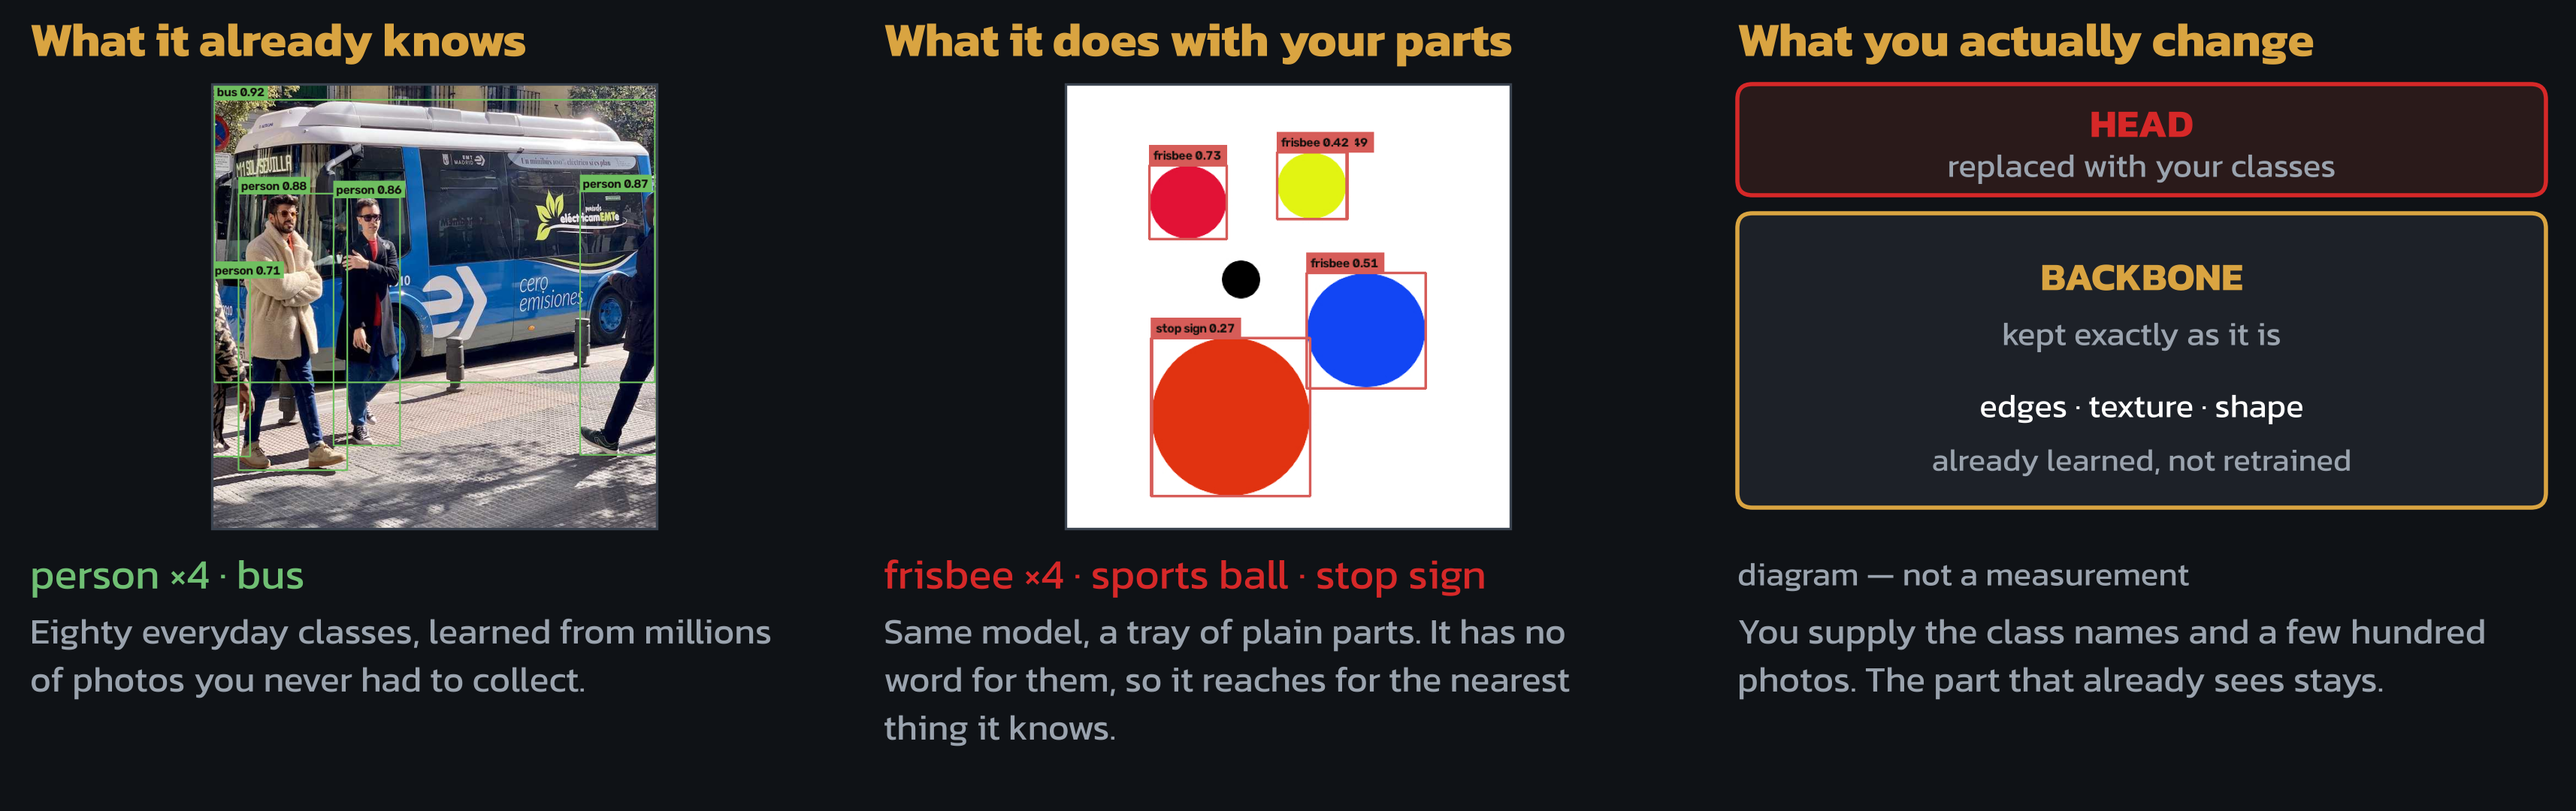
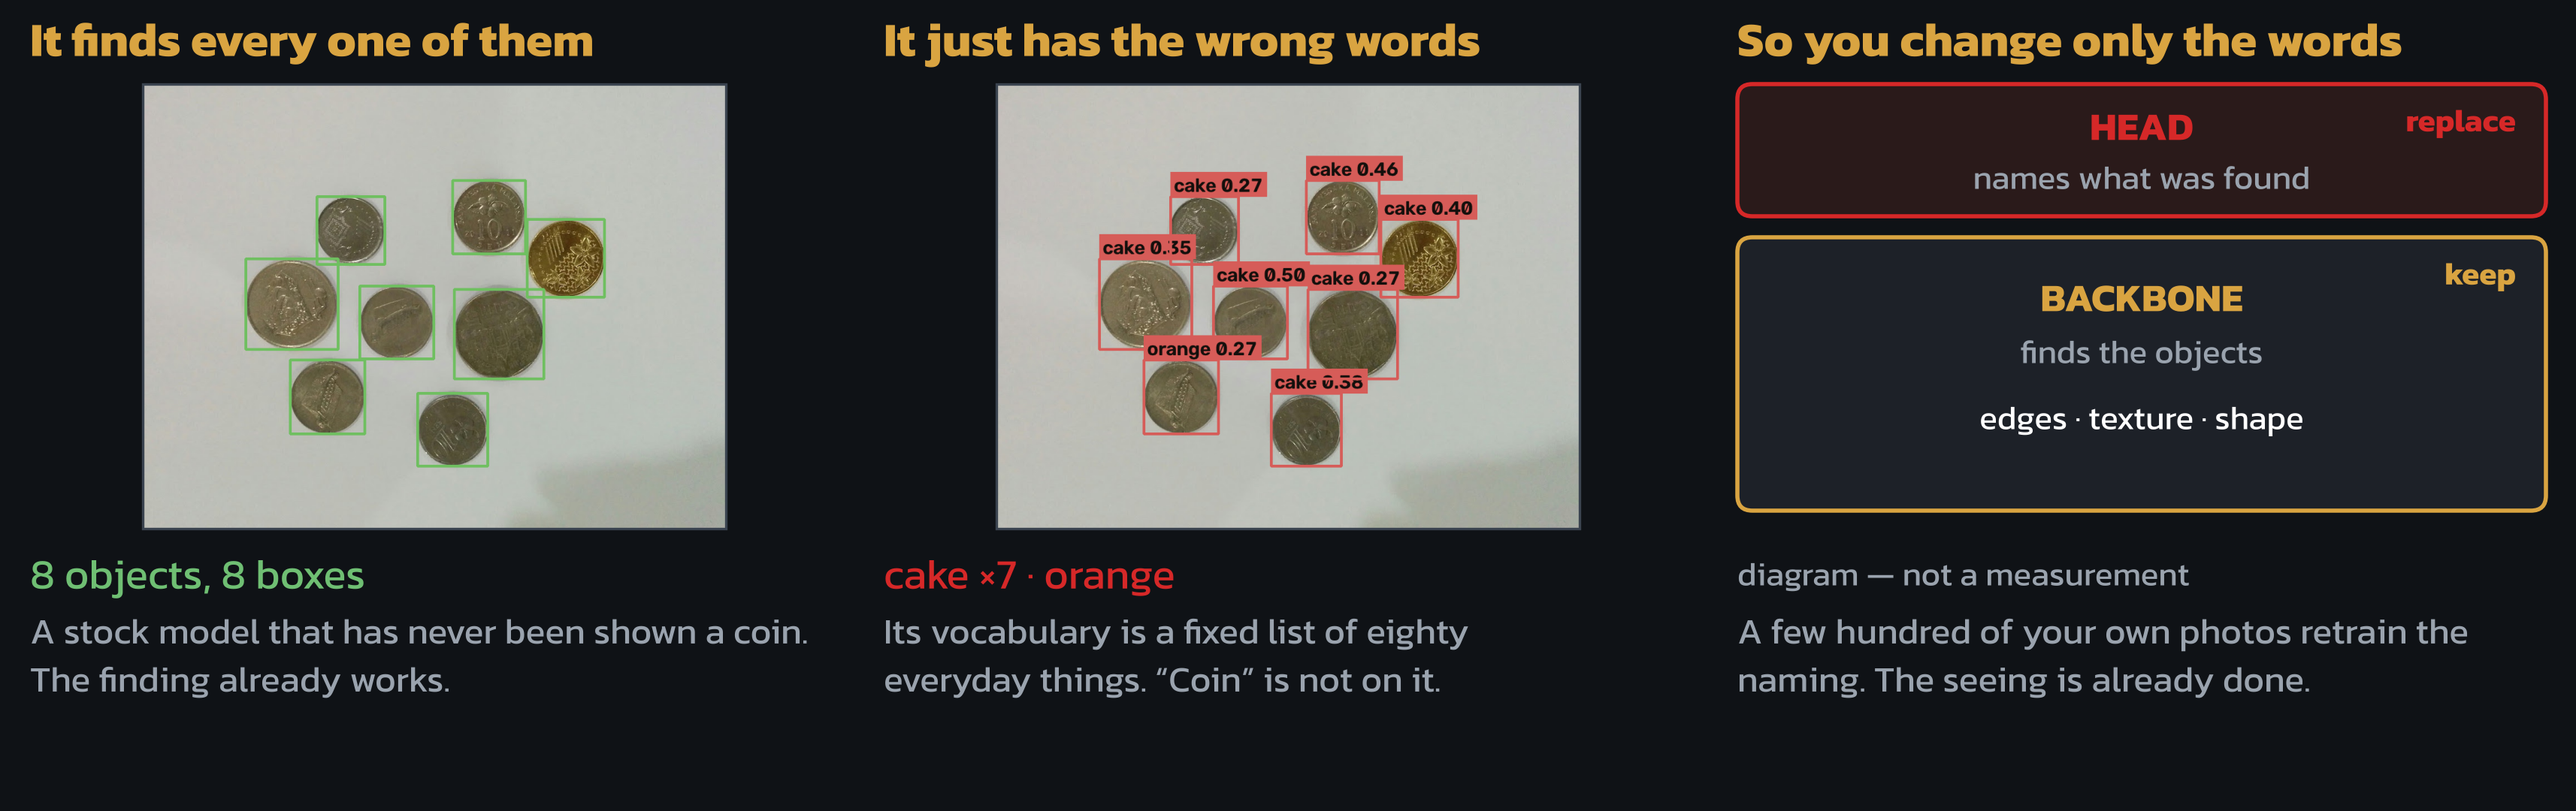
Chapter 4 page 4: one scene through all three panels, not two unrelated photos
The previous version put a street photo in panel 1 and a tray of synthetic
parts in panel 2. Both were real runs, but they were different pictures, so the
page read as two unrelated things rather than one model meeting two situations.
Anon's words: it looks like it has nothing to do with itself, and a learner
would be lost.

Rebuilt around a single photograph - the course's own ex3.jpg, eight coins on a
plain surface - and around what YOLO11n actually does to it, measured at render
time and printed to stdout:

  it draws a box around all eight coins, every one correctly placed
  it then calls seven of them "cake" and one "orange"

That is the whole of transfer learning on one picture. The finding already
works; only the naming is wrong; so you keep the backbone and replace the head.
Panel 1 shows the boxes with the names withheld, panel 2 reveals the names on
the same boxes, panel 3 is the keep-and-replace structure and says on its face
that it is a diagram rather than a measurement.

Coins also beat the old synthetic tray as a stand-in for a real inspection
job - small, round, near-identical parts photographed from above.

Claude-Session: https://claude.ai/code/session_01L2BgT3gVYruUssRpoAW2J5

diff --git a/slide_assets/src/ch4_pretrained.py b/slide_assets/src/ch4_pretrained.py
@@ -1,21 +1,25 @@
-"""Chapter 4, page 4 - what a pretrained model is, shown rather than diagrammed.
+"""Chapter 4, page 4 - what a pretrained model is, shown on one scene.
 
 The page used to be two stacks of unlabelled blocks with an arrow between them.
-It is accurate and it teaches nobody what a pretrained model actually is.
+A first rebuild replaced it with real detections, but used a different photo in
+each panel, so it read as two unrelated things rather than one model meeting
+two situations. Anon's words: it looks like it has nothing to do with itself.
 
-Two of the three panels here are real YOLO11n runs, measured at render time and
-printed to stdout:
+So: one photograph, carried through all three panels.
 
-  panel 1  the course's street photo   -> what the pretrained model knows
-  panel 2  the course's own parts photo -> what it does when the class is not
-                                           in its vocabulary
+The photograph is the course's own ex3.jpg - eight coins on a plain surface -
+and YOLO11n's behaviour on it is the whole lesson, measured at render time:
 
-Panel 2 is the teaching moment and it is not staged: the model has no word for
-a coloured disc, so it reaches for the nearest thing it was taught. The third
-panel is a diagram of which part is kept and which is replaced, and says so.
+  it draws a box around all eight coins, correctly placed
+  it then calls seven of them "cake" and one "orange"
 
-Type sizes follow the course rule that figure text must not be smaller than the
-slide's own body text: headings 32px, result lines 28px, captions 24px.
+The finding already works. Only the naming is wrong. That is exactly why you
+keep the backbone and replace the head, and a learner can see it in one glance
+instead of being told it.
+
+Panel 1 shows the boxes with no labels, panel 2 reveals the labels on the same
+boxes, panel 3 is the keep-and-replace structure, marked on its face as a
+diagram rather than a measurement.
 
 Output: /home/claude/deck/img/ch4_pretrained.png, for a 1713.6x540 figure box.
 """
@@ -24,52 +28,56 @@ import sys
 import textwrap
 
 import cv2
-import numpy as np
 
 sys.path.insert(0, "/home/claude/deck")
 from ip_panels2 import (fig, t, bx, put_img, OUT, GOLD, WHITE, MUTED, GREEN,
-                        CRIM, PANEL, EDGE, BG)
+                        CRIM, EDGE, BG)
 
 from ultralytics import YOLO
 
 W, H = 1714, 540
-SAMPLES = "/home/claude/image_processing_lab/samples/"
-AI = "/home/claude/deck/ai_samples/"
+SCENE = "/home/claude/image_processing_lab/samples/ex3.jpg"
+TRUTH = "coins"
 
 HEAD_PX, RESULT_PX, CAP_PX = 32, 28, 24
 COLW, GAP, MARGIN = 538, 30, 20
 
+BOX_GREEN = (96, 191, 111)      # BGR - localisation, which is right
+BOX_RED = (88, 92, 214)         # BGR - the names, which are not
 
-def detect(path, weights="yolo11n.pt", square=False):
-    """Run the stock model and draw its own output. Nothing is invented."""
+
+def run(path, weights="yolo11n.pt"):
     img = cv2.imread(path)
     if img is None:
         raise SystemExit("missing sample: " + path)
-    if square:
-        # same crop chapter 5 uses, so the two photo panels sit at one size
-        img = img[200:1010, :].copy()
     res = YOLO(weights)(img, verbose=False)[0]
-    counts = {}
-    out = img.copy()
+    boxes, counts = [], {}
     for b in res.boxes:
         name = res.names[int(b.cls)]
         counts[name] = counts.get(name, 0) + 1
-        x1, y1, x2, y2 = [int(v) for v in b.xyxy[0]]
-        col = (96, 191, 111) if name in ("bus", "person") else (88, 92, 214)
-        th = max(2, int(round(img.shape[1] / 420)))
-        cv2.rectangle(out, (x1, y1), (x2, y2), col, th)
-        lab = "%s %.2f" % (name, float(b.conf))
-        fs = img.shape[1] / 1100.0
+        boxes.append((name, float(b.conf), [int(v) for v in b.xyxy[0]]))
+    return img, boxes, counts
+
+
+def draw(img, boxes, colour, labels):
+    """Redraw the model's own output. Boxes always; names only when asked."""
+    out = img.copy()
+    th = max(2, int(round(img.shape[1] / 330)))
+    for name, conf, (x1, y1, x2, y2) in boxes:
+        cv2.rectangle(out, (x1, y1), (x2, y2), colour, th)
+        if not labels:
+            continue
+        lab = "%s %.2f" % (name, conf)
+        fs = img.shape[1] / 900.0
         (tw, thh), _ = cv2.getTextSize(lab, cv2.FONT_HERSHEY_SIMPLEX, fs, 2)
-        cv2.rectangle(out, (x1, max(0, y1 - thh - 10)), (x1 + tw + 10, y1), col, -1)
-        cv2.putText(out, lab, (x1 + 5, max(thh + 2, y1 - 6)),
+        cv2.rectangle(out, (x1, max(0, y1 - thh - 12)),
+                      (x1 + tw + 12, y1), colour, -1)
+        cv2.putText(out, lab, (x1 + 6, max(thh + 2, y1 - 8)),
                     cv2.FONT_HERSHEY_SIMPLEX, fs, (12, 15, 19), 2, cv2.LINE_AA)
-    return out, counts
+    return out
 
 
 def tally(counts):
-    if not counts:
-        return "nothing found at all"
     return " · ".join("%s%s" % (k, " ×%d" % v if v > 1 else "")
                       for k, v in sorted(counts.items(), key=lambda kv: -kv[1]))
 
@@ -81,60 +89,61 @@ def caption(a, x, y, s, width=COLW, px=CAP_PX, c=MUTED):
 
 def stack(a, x, y, w):
     """The diagram panel: which part is kept, which is replaced."""
-    head_h, body_h = 74, 196
+    head_h, body_h = 88, 182
     bx(a, x, y, w, head_h, fc="#2a1a1a", ec=CRIM, lw=2, r=10)
-    t(a, x + w / 2, y + 26, "HEAD", px=26, c=CRIM, ha="center", w="bold")
-    t(a, x + w / 2, y + 54, "replaced with your classes", px=22, c=MUTED,
+    t(a, x + w / 2, y + 28, "HEAD", px=26, c=CRIM, ha="center", w="bold")
+    t(a, x + w / 2, y + 62, "names what was found", px=22, c=MUTED,
       ha="center")
-    bx(a, x, y + head_h + 12, w, body_h, fc="#1d2128", ec=GOLD, lw=2, r=10)
+    bx(a, x, y + head_h + 14, w, body_h, fc="#1d2128", ec=GOLD, lw=2, r=10)
     t(a, x + w / 2, y + head_h + 54, "BACKBONE", px=26, c=GOLD, ha="center",
       w="bold")
-    t(a, x + w / 2, y + head_h + 92, "kept exactly as it is", px=22, c=MUTED,
+    t(a, x + w / 2, y + head_h + 90, "finds the objects", px=22, c=MUTED,
       ha="center")
-    t(a, x + w / 2, y + head_h + 140, "edges · texture · shape", px=22,
+    t(a, x + w / 2, y + head_h + 134, "edges · texture · shape", px=22,
       c=WHITE, ha="center")
-    t(a, x + w / 2, y + head_h + 176, "already learned, not retrained", px=21,
-      c=MUTED, ha="center")
+    t(a, x + w - 20, y + 24, "replace", px=21, c=CRIM, ha="right", w="bold")
+    t(a, x + w - 20, y + head_h + 38, "keep", px=21, c=GOLD, ha="right",
+      w="bold")
 
 
 def panel_pretrained():
     f, a = fig(W, H)
     x = [MARGIN, MARGIN + COLW + GAP, MARGIN + 2 * (COLW + GAP)]
 
-    street, c1 = detect(AI + "bus.jpg", square=True)
-    parts, c2 = detect(SAMPLES + "ex2.jpg")
-    _, c3 = detect(SAMPLES + "ex3.png")
+    img, boxes, counts = run(SCENE)
+    n = len(boxes)
 
-    # ---- 1. what it already knows
-    t(a, x[0], 26, "What it already knows", px=HEAD_PX, c=GOLD, w="bold")
-    put_img(a, street, x[0], 56, COLW, 296)
-    t(a, x[0], 382, tally(c1), px=RESULT_PX, c=GREEN)
+    # ---- 1. the finding, with the names withheld
+    t(a, x[0], 26, "It finds every one of them", px=HEAD_PX, c=GOLD, w="bold")
+    put_img(a, draw(img, boxes, BOX_GREEN, labels=False), x[0], 56, COLW, 296)
+    t(a, x[0], 382, "%d objects, %d boxes" % (n, n), px=RESULT_PX, c=GREEN)
     caption(a, x[0], 420,
-            "Eighty everyday classes, learned from millions of photos you "
-            "never had to collect.")
+            "A stock model that has never been shown a coin. The finding "
+            "already works.")
 
-    # ---- 2. what it does with your parts
-    t(a, x[1], 26, "What it does with your parts", px=HEAD_PX, c=GOLD,
+    # ---- 2. the same boxes, now with what it calls them
+    t(a, x[1], 26, "It just has the wrong words", px=HEAD_PX, c=GOLD,
       w="bold")
-    put_img(a, parts, x[1], 56, COLW, 296)
-    t(a, x[1], 382, tally(c2), px=RESULT_PX, c=CRIM)
+    put_img(a, draw(img, boxes, BOX_RED, labels=True), x[1], 56, COLW, 296)
+    t(a, x[1], 382, tally(counts), px=RESULT_PX, c=CRIM)
     caption(a, x[1], 420,
-            "Same model, a tray of plain parts. It has no word for them, so "
-            "it reaches for the nearest thing it knows.")
+            "Its vocabulary is a fixed list of eighty everyday things. "
+            "“%s” is not on it." % TRUTH[:-1].capitalize())
 
-    # ---- 3. what you actually change
-    t(a, x[2], 26, "What you actually change", px=HEAD_PX, c=GOLD, w="bold")
+    # ---- 3. so you change only the naming part
+    t(a, x[2], 26, "So you change only the words", px=HEAD_PX, c=GOLD,
+      w="bold")
     stack(a, x[2], 56, COLW)
     t(a, x[2], 382, "diagram — not a measurement", px=22, c=MUTED)
     caption(a, x[2], 420,
-            "You supply the class names and a few hundred photos. The part "
-            "that already sees stays.")
+            "A few hundred of your own photos retrain the naming. The seeing "
+            "is already done.")
 
     f.savefig(OUT + "ch4_pretrained.png", dpi=100, facecolor=BG)
     print("ch4_pretrained.png")
-    print("  street photo  ->", c1 or "nothing")
-    print("  parts ex2.jpg ->", c2 or "nothing")
-    print("  parts ex3.png ->", c3 or "nothing  (the empty-list case)")
+    print("  scene      :", os.path.basename(SCENE), img.shape[1::-1])
+    print("  boxes drawn:", n)
+    print("  it calls them:", counts)
 
 
 if __name__ == "__main__":
